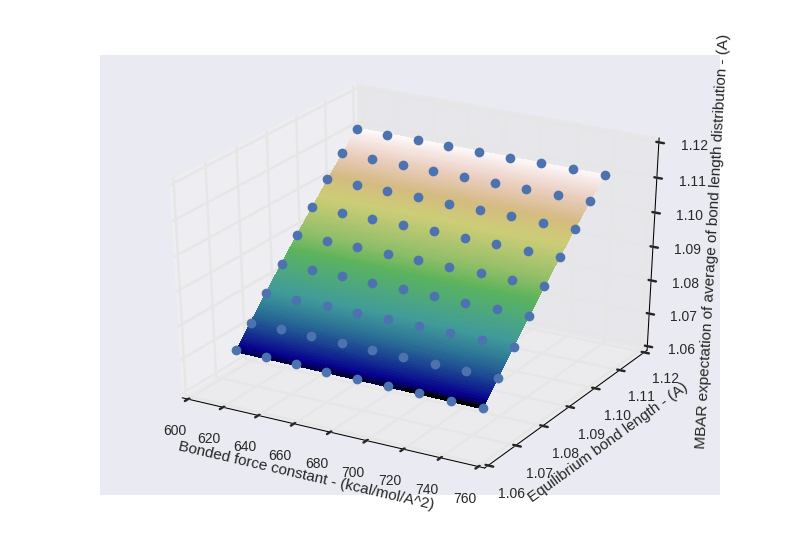
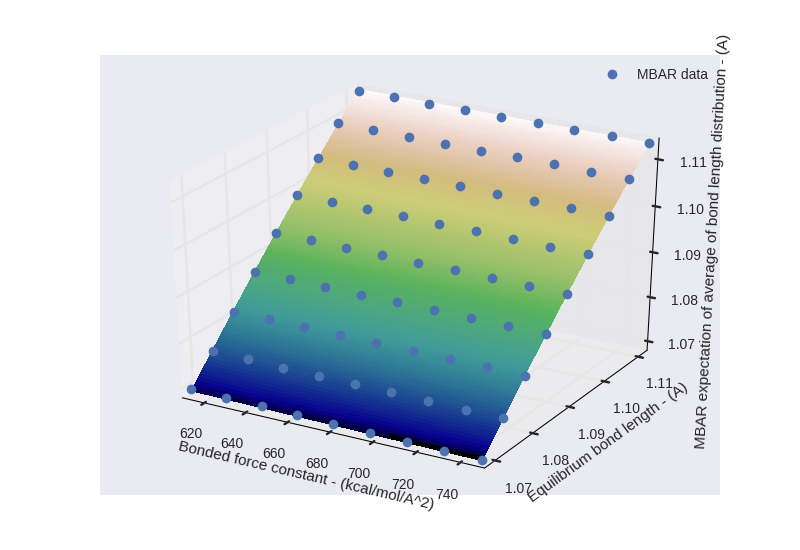
MBAR plots

diff --git a/single-molecule-property-generation/graph_bl.py b/single-molecule-property-generation/graph_bl.py
@@ -152,7 +152,7 @@ ax.set_xlabel('Bonded force constant - (kcal/mol/A^2)')
 ax.set_ylabel('Equilibrium bond length - (A)')
 ax.set_zlabel('Average of bond length distribution - (A)')
 ax.plot3D(x_av, y_av, z_av, "o",label="Simulation data")
-ax.plot3D(x_avm,y_avm,z_avm,"o",label="MBAR data")
+#ax.plot3D(x_avm,y_avm,z_avm,"o",label="MBAR data")
 ax.set_xlim([x_avm.min(),x_avm.max()])
 ax.set_ylim([y_avm.min(),y_avm.max()])
 ax.set_zlim([z_avm.min(),z_avm.max()])
@@ -173,7 +173,8 @@ zz_var_unc_arr = np.vstack(zz_var_unc.flatten()).T[0]
 
 fg.canvas.draw()
 plt.savefig('bond_length_average_vs_k_length_w_fit.png')
-sys.exit()
+
+
 # Plotting (see http://matplotlib.org/examples/mplot3d/custom_shaded_3d_surface.html):
 fg, ax = plt.subplots(subplot_kw=dict(projection='3d'))
 ls = LightSource(270, 45)
@@ -186,11 +187,15 @@ surf = ax.plot_surface(xxm, yym, zz_avm, rstride=1, cstride=1, facecolors=rgb,
 ax.set_xlabel('Bonded force constant - (kcal/mol/A^2)')
 ax.set_ylabel('Equilibrium bond length - (A)')
 ax.set_zlabel('MBAR expectation of average of bond length distribution - (A)')
-ax.plot3D(x_avm, y_avm, z_avm, "o")
+ax.plot3D(x_avm, y_avm, z_avm, "o",label='MBAR data')
+ax.set_xlim([x_avm.min(),x_avm.max()])
+ax.set_ylim([y_avm.min(),y_avm.max()])
+ax.set_zlim([z_avm.min(),z_avm.max()])
+ax.legend()
 
 fg.canvas.draw()
 plt.savefig('bond_length_average_vs_k_length_w_fit_MBAR.png')
-
+sys.exit()
 # Plotting (see http://matplotlib.org/examples/mplot3d/custom_shaded_3d_surface.html):
 fg, ax = plt.subplots(subplot_kw=dict(projection='3d'))
 ls = LightSource(270, 45)
